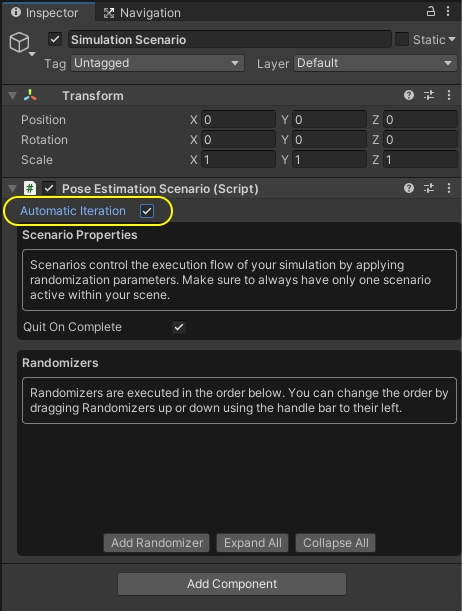
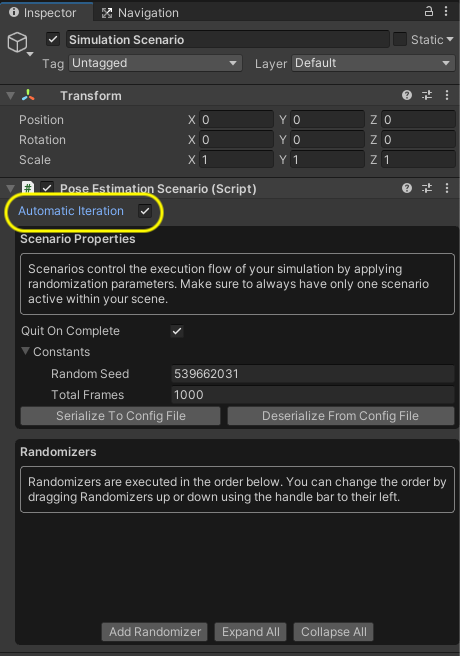
Manual dev->main

Changed region(s): [[0.0, 0.0, 1.0, 0.9951], [0.8522, 0.2799, 0.9739, 0.311], [0.9739, 0.5597, 1.0, 0.5908]]

diff --git a/PoseEstimationDemoProject/Assets/TutorialAssets/Scripts/PoseEstimationScenario.cs b/PoseEstimationDemoProject/Assets/TutorialAssets/Scripts/PoseEstimationScenario.cs
@@ -1,12 +1,15 @@
+using System;
 using UnityEngine.Perception.Randomization.Scenarios;
 
+[Serializable]
 public class PoseEstimationScenarioConstants : ScenarioConstants
 {
     public int totalFrames = 1000;
 }
+
 public class PoseEstimationScenario : Scenario<PoseEstimationScenarioConstants>
 {
-    public bool automaticIteration = false;
+    public bool automaticIteration = true;
     
     bool shouldIterate = false; 
 

diff --git a/Documentation/3_data_collection_model_training.md b/Documentation/3_data_collection_model_training.md
@@ -29,7 +29,7 @@ We have chosen a training dataset of 30,000 images and a validation dataset of 3
 
 1. Select the `Simulation Scenario` GameObject and in the _**Inspector**_ tab, make sure `Automatic Iteration` is enabled. When this flag is enabled, our Scenario automatically proceeds through Iterations, triggering the `OnIterationStart()` method of all Randomizers on each Iteration. When this flag is disabled, the Iterations would have to be triggered manually. 
 
-2. In the ***Inspector*** view of  `Pose Estimation Scenario`, set the `Total Iterations` field under `Constants` to 30000.
+2. In the ***Inspector*** view of  `Pose Estimation Scenario`, set the `Total Frames` field under `Constants` to 30000.
 
 3. Press play and wait until the simulation is done. It should take a bit of time (~10 min).
 
@@ -52,7 +52,7 @@ You should then see something similar to this:
 
 Now we need to collect the validation dataset. 
 
-8. Back in Unity Editor, Select the `Simulation Scenario` GameObject and in the _**Inspector**_ tab, in `Pose Estimation Scenario`, set the `Total Iterations` field under `Constants` to 3000.
+8. Back in Unity Editor, Select the `Simulation Scenario` GameObject and in the _**Inspector**_ tab, in `Pose Estimation Scenario`, set the `Total Frames` field under `Constants` to 3000.
 
 9. Press play and wait until the simulation is done. Once the simulation finishes, follow the same steps as before to navigate to the output folder.
 

diff --git a/Documentation/2_set_up_the_data_collection_scene.md b/Documentation/2_set_up_the_data_collection_scene.md
@@ -108,7 +108,7 @@ To start randomizing your simulation, you will first need to add a **Scenario** 
 
 2. Select the `Simulation Scenario` GameObject and in the _**Inspector**_ tab, click on the _**Add Component**_ button. Start typing `Pose Estimation Scenario` in the search bar that appears, until the `Pose Estimation Scenario` script is found, with a **#** icon to the left. Click on the script. 
    
-3. Still in the _**Inspector**_ tab of the `Simulation Scenario` GameObject, enable the `Automatic Iteration` flag. 
+3. Still in the _**Inspector**_ tab of the `Simulation Scenario` GameObject, ensure the `Automatic Iteration` flag is enabled.
 
 <p align="center">
 <img src="Images/2_scenario_auto.png" height=500/>
